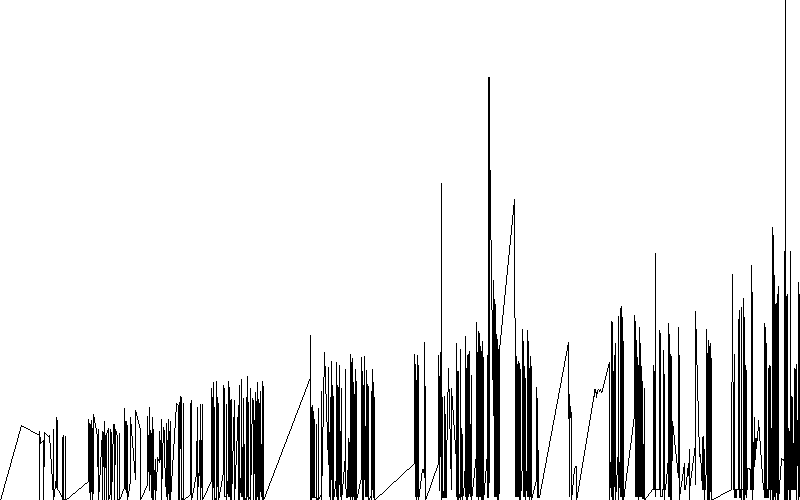
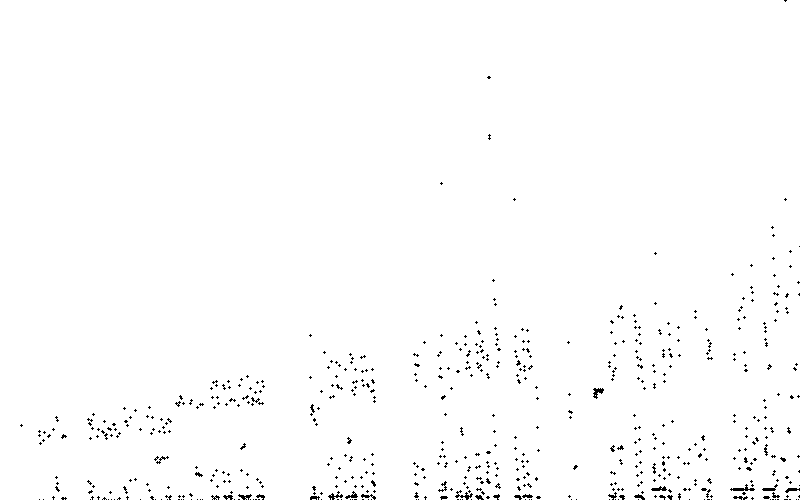
Added kda graphs and changes point size on graphs. Bug fixes too

diff --git a/testReplaysAndData/getPlayerStats.py b/testReplaysAndData/getPlayerStats.py
@@ -73,6 +73,54 @@ def generatePlayerLevelGraph(playerLevelOverTime) :
 
 	im.save("playerLevelGraph.png")
 
+def generatePlayerKillsGraph(playerKillsOverTime) :	
+	imageWidth = 800.0
+	imageHeight = 500.0
+	im = Image.new("RGB", (800, 500), "white")
+	draw = ImageDraw.Draw(im)
+	maxTime = float(playerKillsOverTime[-1][0])
+	numberOfKills = float(len(playerKillsOverTime))
+	#draw.line((0, imageHeight, float(playerKillsOverTime[0][0])/maxTime*imageWidth, imageHeight-1.0/numberOfKills*imageHeight), fill=(0,0,0))
+	for i in range(len(playerKillsOverTime)-1) :
+		draw.line((float(playerKillsOverTime[i][0])/maxTime*imageWidth, imageHeight-float(i)/numberOfKills*imageHeight, float(playerKillsOverTime[i+1][0])/maxTime*imageWidth, imageHeight-float(i+1)/numberOfKills*imageHeight), fill=(0,0,0))
+		draw.text((float(playerKillsOverTime[i+1][0])/maxTime*imageWidth, imageHeight-30.0), playerKillsOverTime[i+1][1].title(), fill=(255,0,0))
+
+	del draw
+
+	im.save("playerKillsGraph.png")
+
+def generatePlayerDeathsGraph(playerDeathsOverTime) :
+	imageWidth = 800.0
+	imageHeight = 500.0
+	im = Image.new("RGB", (800, 500), "white")
+	draw = ImageDraw.Draw(im)
+	maxTime = float(playerDeathsOverTime[-1][0])
+	numberOfDeaths = float(len(playerDeathsOverTime))
+	#draw.line((0, imageHeight, float(playerDeathsOverTime[0][0])/maxTime*imageWidth, imageHeight-1.0/numberOfDeaths*imageHeight), fill=(0,0,0))
+	for i in range(len(playerDeathsOverTime)-1) :
+		draw.line((float(playerDeathsOverTime[i][0])/maxTime*imageWidth, imageHeight-float(i)/numberOfDeaths*imageHeight, float(playerDeathsOverTime[i+1][0])/maxTime*imageWidth, imageHeight-float(i+1)/numberOfDeaths*imageHeight), fill=(0,0,0))
+		draw.text((float(playerDeathsOverTime[i+1][0])/maxTime*imageWidth, imageHeight-30.0), playerDeathsOverTime[i+1][1].title(), fill=(255,0,0))
+
+	del draw
+
+	im.save("playerDeathsGraph.png")
+
+def generatePlayerAssistsGraph(playerAssistsOverTime) :
+	imageWidth = 800.0
+	imageHeight = 500.0
+	im = Image.new("RGB", (800, 500), "white")
+	draw = ImageDraw.Draw(im)
+	maxTime = float(playerAssistsOverTime[-1][0])
+	numberOfAssists = float(len(playerAssistsOverTime))
+	#draw.line((0, imageHeight, float(playerAssistsOverTime[0][0])/maxTime*imageWidth, imageHeight-1.0/numberOfAssists*imageHeight), fill=(0,0,0))
+	for i in range(len(playerAssistsOverTime)-1) :
+		draw.line((float(playerAssistsOverTime[i][0])/maxTime*imageWidth, imageHeight-float(i)/numberOfAssists*imageHeight, float(playerAssistsOverTime[i+1][0])/maxTime*imageWidth, imageHeight-float(i+1)/numberOfAssists*imageHeight), fill=(0,0,0))
+		draw.text((float(playerAssistsOverTime[i+1][0])/maxTime*imageWidth, imageHeight-30.0), playerAssistsOverTime[i+1][1].title(), fill=(255,0,0))
+
+	del draw
+
+	im.save("playerAssistsGraph.png")
+
 def generatePlayerGoldGraph(playerTotalGoldOverTime) :
 	imageWidth = 800.0
 	imageHeight = 500.0
@@ -100,7 +148,7 @@ def generatePlayerGPMGraph(playerGPMOverTime) :
 		if playerGPMOverTime[i][1] > maxGPM :
 			maxGPM = float(playerGPMOverTime[i][1])
 
-	draw.line((0, imageHeight, float(playerGPMOverTime[0][0])/maxTime*imageWidth, imageHeight-float(playerGPMOverTime[0][1])/maxGPM*imageHeight), fill=(0,0,0))
+	#draw.line((0, imageHeight, float(playerGPMOverTime[0][0])/maxTime*imageWidth, imageHeight-float(playerGPMOverTime[0][1])/maxGPM*imageHeight), fill=(0,0,0))
 	for i in range(len(playerGPMOverTime)-1) :
 		draw.line((float(playerGPMOverTime[i][0])/maxTime*imageWidth, imageHeight-float(playerGPMOverTime[i][1])/maxGPM*imageHeight, float(playerGPMOverTime[i+1][0])/maxTime*imageWidth, imageHeight-float(playerGPMOverTime[i+1][1])/maxGPM*imageHeight), fill=(0,0,0))
 		#draw.text((playerGPMOverTime[i+1][0]/10, playerGPMOverTime[i+1][1]*10), str(playerGPMOverTime[i+1][1]).title(), fill=(255,0,0))
@@ -121,10 +169,16 @@ def generatePlayerDamageDealtGraph(playerDamageDealtOverTime) :
 			maxDamage = float(playerDamageDealtOverTime[i][2])
 	if maxDamage == 0 :
 		pass
-	draw.line((0, imageHeight, float(playerDamageDealtOverTime[0][0])/maxTime*imageWidth, imageHeight-float(playerDamageDealtOverTime[0][2])/maxDamage*imageHeight), fill=(0,0,0))
-	for i in range(len(playerDamageDealtOverTime)-1) :
-		draw.line((float(playerDamageDealtOverTime[i][0])/maxTime*imageWidth, imageHeight-float(playerDamageDealtOverTime[i][2])/maxDamage*imageHeight, float(playerDamageDealtOverTime[i+1][0])/maxTime*imageWidth, imageHeight-float(playerDamageDealtOverTime[i+1][2])/maxDamage*imageHeight), fill=(0,0,0))
+	#draw.line((0, imageHeight, float(playerDamageDealtOverTime[0][0])/maxTime*imageWidth, imageHeight-float(playerDamageDealtOverTime[0][2])/maxDamage*imageHeight), fill=(0,0,0))
+	#for i in range(len(playerDamageDealtOverTime)-1) :
+		#draw.line((float(playerDamageDealtOverTime[i][0])/maxTime*imageWidth, imageHeight-float(playerDamageDealtOverTime[i][2])/maxDamage*imageHeight, float(playerDamageDealtOverTime[i+1][0])/maxTime*imageWidth, imageHeight-float(playerDamageDealtOverTime[i+1][2])/maxDamage*imageHeight), fill=(0,0,0))
 		#draw.text((playerDamageDealtOverTime[i+1][0]/10, playerDamageDealtOverTime[i+1][1]*10), str(playerDamageDealtOverTime[i+1][1]).title(), fill=(255,0,0))
+	for i in range(len(playerDamageDealtOverTime)) :
+		draw.point((float(playerDamageDealtOverTime[i][0])/maxTime*imageWidth, imageHeight-float(playerDamageDealtOverTime[i][2])/maxDamage*imageHeight), fill=(0,0,0))
+		draw.point((float(playerDamageDealtOverTime[i][0])/maxTime*imageWidth-1, imageHeight-float(playerDamageDealtOverTime[i][2])/maxDamage*imageHeight), fill=(0,0,0))
+		draw.point((float(playerDamageDealtOverTime[i][0])/maxTime*imageWidth+1, imageHeight-float(playerDamageDealtOverTime[i][2])/maxDamage*imageHeight), fill=(0,0,0))
+		draw.point((float(playerDamageDealtOverTime[i][0])/maxTime*imageWidth, imageHeight-float(playerDamageDealtOverTime[i][2])/maxDamage*imageHeight-1), fill=(0,0,0))
+		draw.point((float(playerDamageDealtOverTime[i][0])/maxTime*imageWidth, imageHeight-float(playerDamageDealtOverTime[i][2])/maxDamage*imageHeight+1), fill=(0,0,0))
 
 	del draw
 
@@ -140,16 +194,28 @@ def generatePlayerDamageDealtSpecificGraph(playerDamageDealtOverTime, dealtTo) :
 	for i in range(len(playerDamageDealtOverTime)) :
 		if playerDamageDealtOverTime[i][2] > maxDamage and dealtTo in playerDamageDealtOverTime[i][1] :
 			maxDamage = float(playerDamageDealtOverTime[i][2])
-
-	draw.line((0, imageHeight, float(playerDamageDealtOverTime[0][0])/maxTime*imageWidth, imageHeight-float(playerDamageDealtOverTime[0][2])/maxDamage*imageHeight), fill=(0,0,0))
-	for i in range(len(playerDamageDealtOverTime)-1) :
+	if maxDamage == 0 :
+		pass
+	#draw.line((0, imageHeight, float(playerDamageDealtOverTime[0][0])/maxTime*imageWidth, imageHeight-float(playerDamageDealtOverTime[0][2])/maxDamage*imageHeight), fill=(0,0,0))
+	for i in range(len(playerDamageDealtOverTime)) :
 		if dealtTo in playerDamageDealtOverTime[i][1] :
-			draw.line((float(playerDamageDealtOverTime[i][0])/maxTime*imageWidth, imageHeight-float(playerDamageDealtOverTime[i][2])/maxDamage*imageHeight, float(playerDamageDealtOverTime[i+1][0])/maxTime*imageWidth, imageHeight-float(playerDamageDealtOverTime[i+1][2])/maxDamage*imageHeight), fill=(0,0,0))
-		#draw.text((playerDamageDealtOverTime[i+1][0]/10, playerDamageDealtOverTime[i+1][1]*10), str(playerDamageDealtOverTime[i+1][1]).title(), fill=(255,0,0))
+			draw.point((float(playerDamageDealtOverTime[i][0])/maxTime*imageWidth, imageHeight-float(playerDamageDealtOverTime[i][2])/maxDamage*imageHeight), fill=(0,0,0))
+			draw.point((float(playerDamageDealtOverTime[i][0])/maxTime*imageWidth-1, imageHeight-float(playerDamageDealtOverTime[i][2])/maxDamage*imageHeight), fill=(0,0,0))
+			draw.point((float(playerDamageDealtOverTime[i][0])/maxTime*imageWidth+1, imageHeight-float(playerDamageDealtOverTime[i][2])/maxDamage*imageHeight), fill=(0,0,0))
+			draw.point((float(playerDamageDealtOverTime[i][0])/maxTime*imageWidth, imageHeight-float(playerDamageDealtOverTime[i][2])/maxDamage*imageHeight-1), fill=(0,0,0))
+			draw.point((float(playerDamageDealtOverTime[i][0])/maxTime*imageWidth, imageHeight-float(playerDamageDealtOverTime[i][2])/maxDamage*imageHeight+1), fill=(0,0,0))
+
+			draw.point((float(playerDamageDealtOverTime[i][0])/maxTime*imageWidth-1, imageHeight-float(playerDamageDealtOverTime[i][2])/maxDamage*imageHeight-1), fill=(0,0,0))
+			draw.point((float(playerDamageDealtOverTime[i][0])/maxTime*imageWidth+1, imageHeight-float(playerDamageDealtOverTime[i][2])/maxDamage*imageHeight+1), fill=(0,0,0))
+			draw.point((float(playerDamageDealtOverTime[i][0])/maxTime*imageWidth+1, imageHeight-float(playerDamageDealtOverTime[i][2])/maxDamage*imageHeight-1), fill=(0,0,0))
+			draw.point((float(playerDamageDealtOverTime[i][0])/maxTime*imageWidth-1, imageHeight-float(playerDamageDealtOverTime[i][2])/maxDamage*imageHeight+1), fill=(0,0,0))
+
 
 	del draw
 
 	im.save("playerDamageDealtTo" + dealtTo.replace("npc_dota_hero_","").replace("_", " ").title().replace(" ", "") + "Graph.png")
+
+
 
 
 
@@ -375,6 +441,15 @@ if __name__ == '__main__' :
 	#-----------------------------------------------------------
 
 	# Multiprocessing (is this done properly?)
+	playerKillProcess = Process(target=generatePlayerKillsGraph, args=(playerKillsOverTime,))
+	playerKillProcess.start()
+	playerKillProcess.join()
+	playerDeathProcess = Process(target=generatePlayerDeathsGraph, args=(playerDeathsOverTime,))
+	playerDeathProcess.start()
+	playerDeathProcess.join()
+	playerAssistProcess = Process(target=generatePlayerAssistsGraph, args=(playerAssistsOverTime,))
+	playerAssistProcess.start()
+	playerAssistProcess.join()
 	playerLevelProcess = Process(target=generatePlayerLevelGraph, args=(playerLevelOverTime,))
 	playerLevelProcess.start()
 	playerLevelProcess.join()
